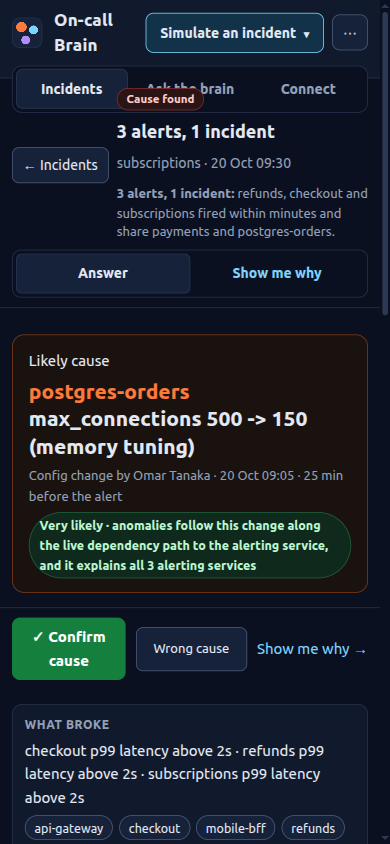
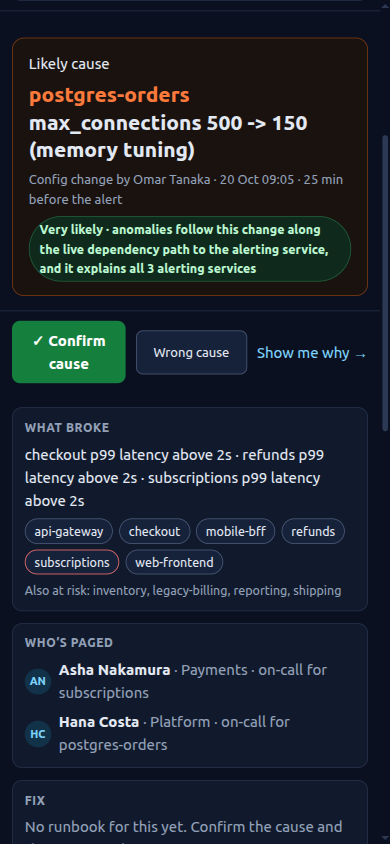
docs: MCP.md (prompts, token, headless flow, tool-pick result), PRODUCT.md, STATUS

diff --git a/docs/MCP.md b/docs/MCP.md
@@ -35,14 +35,41 @@ python -m oncall_brain.mcp_server --http --port 8001
 ```
 
 Over HTTP the server checks the `Host` and `Origin` headers against `ALLOWED_HOSTS` (plus the local names) on any
-bind address, which blocks DNS rebinding. It has no token and no per-user auth: anyone who can reach it can use any
-tenant. Keep it on localhost, or see [DEPLOY.md](DEPLOY.md) before exposing it.
+bind address, which blocks DNS rebinding. Set `API_TOKEN` and every request must carry
+`Authorization: Bearer <token>` (the same token guards the HTTP API), which is what a remote connector for Claude
+Desktop or claude.ai needs. There is no per-user auth: anyone with the token can use any tenant. See
+[DEPLOY.md](DEPLOY.md) before exposing it.
 
-Which Python to use:
-- On Harsh's machine, the venv lives on the external drive: `<venv>/bin/python`.
-- Elsewhere, after `make setup`, it is the project venv: `<repo>/.venv/bin/python`.
+`<venv>/bin/python` below is the interpreter `make setup` created (`<repo>/.venv/bin/python`, or wherever your
+`VIRTUAL_ENV` points).
 
-The commands below use the first. Swap in the second on another machine.
+## What an outside model sees, and whether it picks right
+
+The server publishes `instructions` (the three ways to use it and what ids look like), 24 tools with a description
+and a described argument schema each (`tests/unit/test_mcp_surface.py` fails the build if any argument lacks one),
+`readOnlyHint` annotations, and two prompts:
+
+| Prompt | Arguments | Expands to |
+|---|---|---|
+| `work_alert` | `tenant`, `alert_id` | "Call respond_to_alert ... report the likely cause with its confidence, who is paged, the fix, what was ruled out, the update; then offer resolve_incident" |
+| `company_question` | `tenant`, `question` | "Call ask ... lead with the answer, then the sources; who_knows / change_story when they add something" |
+
+`python -m scripts.mcp_pick` gives Claude only what an MCP client gets (instructions + tool list) and 14 plain
+requests ("who owns kafka?", "we just deployed cart v3.2.0, record that", "inc:checkout-latency is confirmed:
+chg:pgw-pool-1 caused it"...). Result: **14/14 right on claude-opus-5-5**, table in [MCP_PICK.md](MCP_PICK.md).
+
+## Headless: alert in, answer and update out, no UI open
+
+```bash
+curl -X POST 'http://localhost:8000/api/tenants/acme/alerts?respond=true' \
+  -H 'content-type: application/json' \
+  -d '{"service": "svc:checkout", "symptom": "latency", "name": "checkout p99 latency above 2s"}'
+```
+
+records the alert (`raise_alert`), runs the three agents, writes the incident, its evidence and the status update
+into the graph, and, with `SLACK_WEBHOOK_URL` set, posts the update to your channel. The response is the same run
+object the UI shows; the inbox lists the incident the next time anyone opens it. Over MCP the equivalent is
+`raise_alert` then `respond_to_alert`.
 
 ## Claude Code
 
@@ -59,7 +86,10 @@ claude mcp add --transport http oncall-brain http://127.0.0.1:8001/mcp
 ```
 
 Then, in Claude Code, ask e.g. *"Using oncall-brain on tenant demo: reset it, then respond to
-alert:checkout-latency and tell me the root cause and which suspects were ruled out."*
+alert:checkout-latency and tell me the root cause and which suspects were ruled out."*, or use the server's prompts
+(`/mcp` lists them as `/oncall-brain:work_alert` and `/oncall-brain:company_question`). A Claude Code plugin
+(`plugin/`: `plugin.json`, `.mcp.json`, skills, `marketplace.json`) packages the same server for a one-minute
+install; see the README once it lands.
 
 ## Claude Desktop
 
@@ -81,8 +111,6 @@ and restart Claude Desktop. Claude Desktop does not start in the repo, so pass t
 ## MCP Inspector
 
 ```bash
-# On Harsh's machine, source env.sh first so the npm cache stays on the external drive.
-source /media/harsh/MyPassport1/devenv/env.sh
 npx @modelcontextprotocol/inspector <venv>/bin/python -m oncall_brain.mcp_server
 ```
 
@@ -183,4 +211,5 @@ alert makes the agents refute suspects behind it ("checkout no longer depends on
 `tests/integration/test_mcp.py` drives the server in-process with the SDK's own `mcp.Client`. It lists the tools,
 seeds a throwaway tenant through `reset_tenant` and calls `blast_radius` on it; it is skipped when FalkorDB is not
 reachable. `test_mcp_over_http_refuses_foreign_host_and_origin` checks that MCP over HTTP answers a foreign `Host`
-with 421 and a foreign `Origin` with 403.
+with 421 and a foreign `Origin` with 403. `tests/unit/test_mcp_surface.py` checks every tool and argument is
+described, the prompts render, and the remote transport refuses requests without the token when `API_TOKEN` is set.
